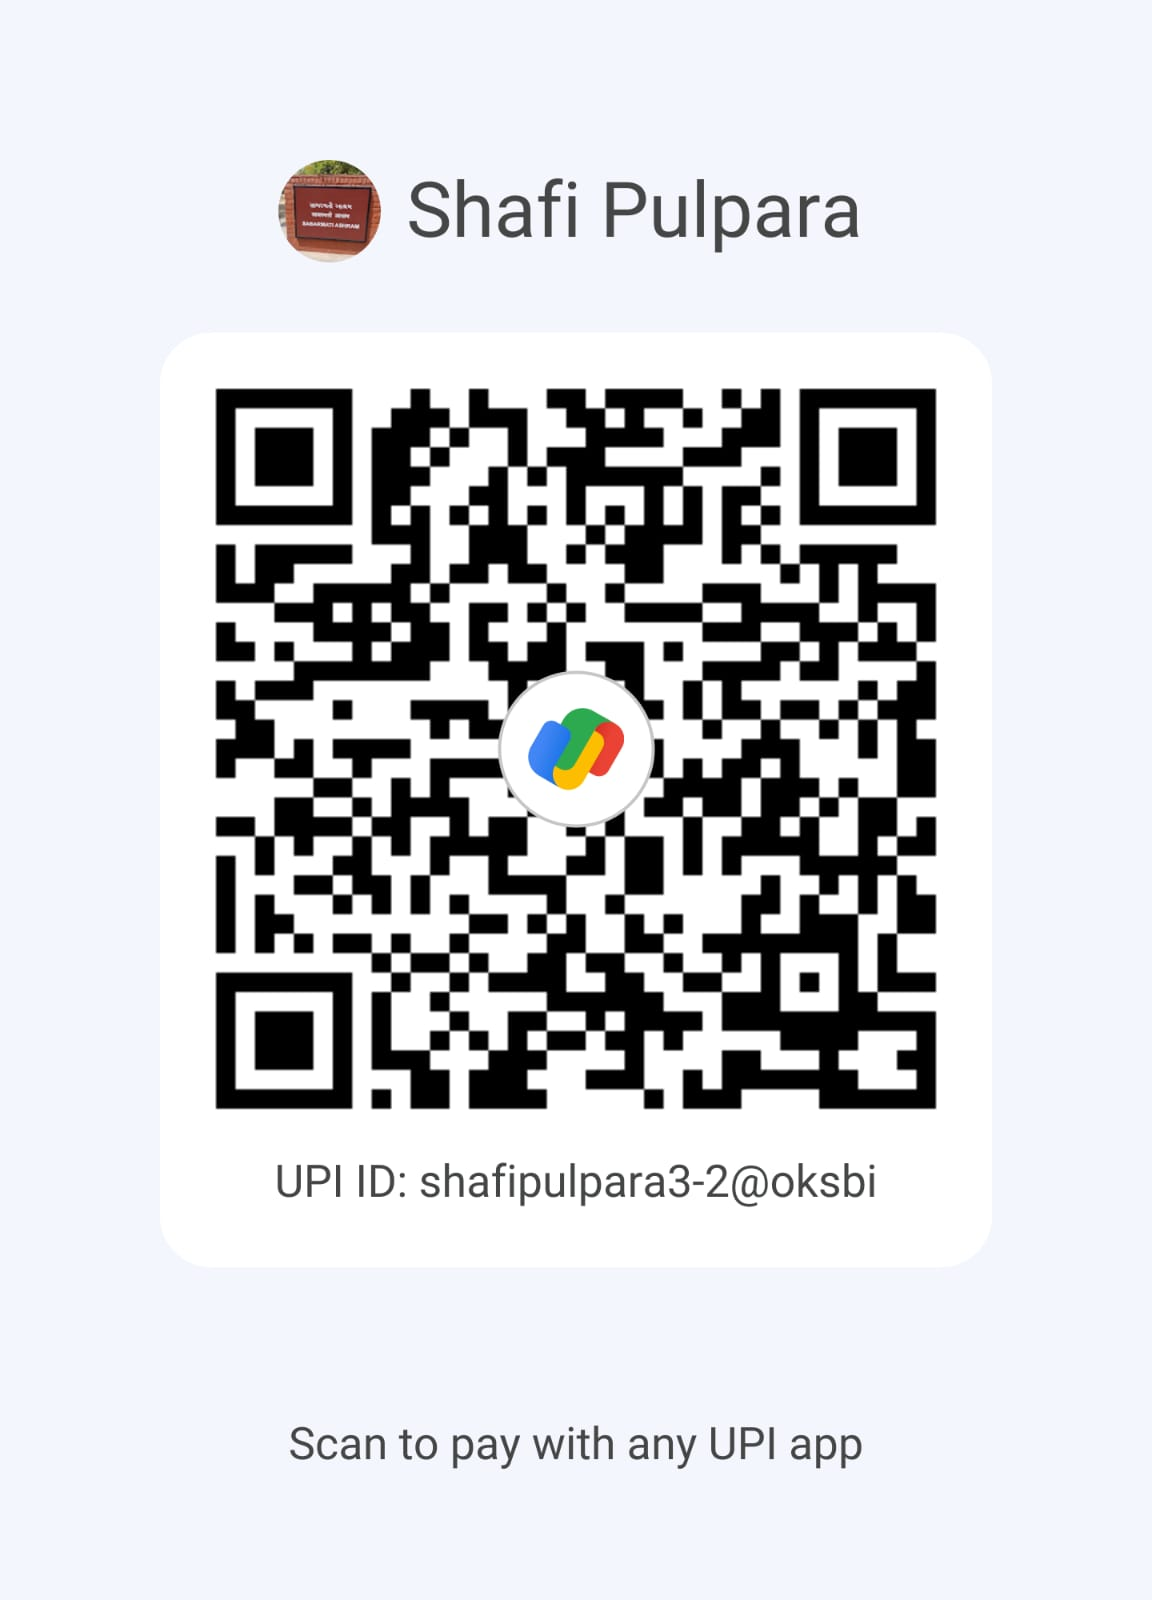
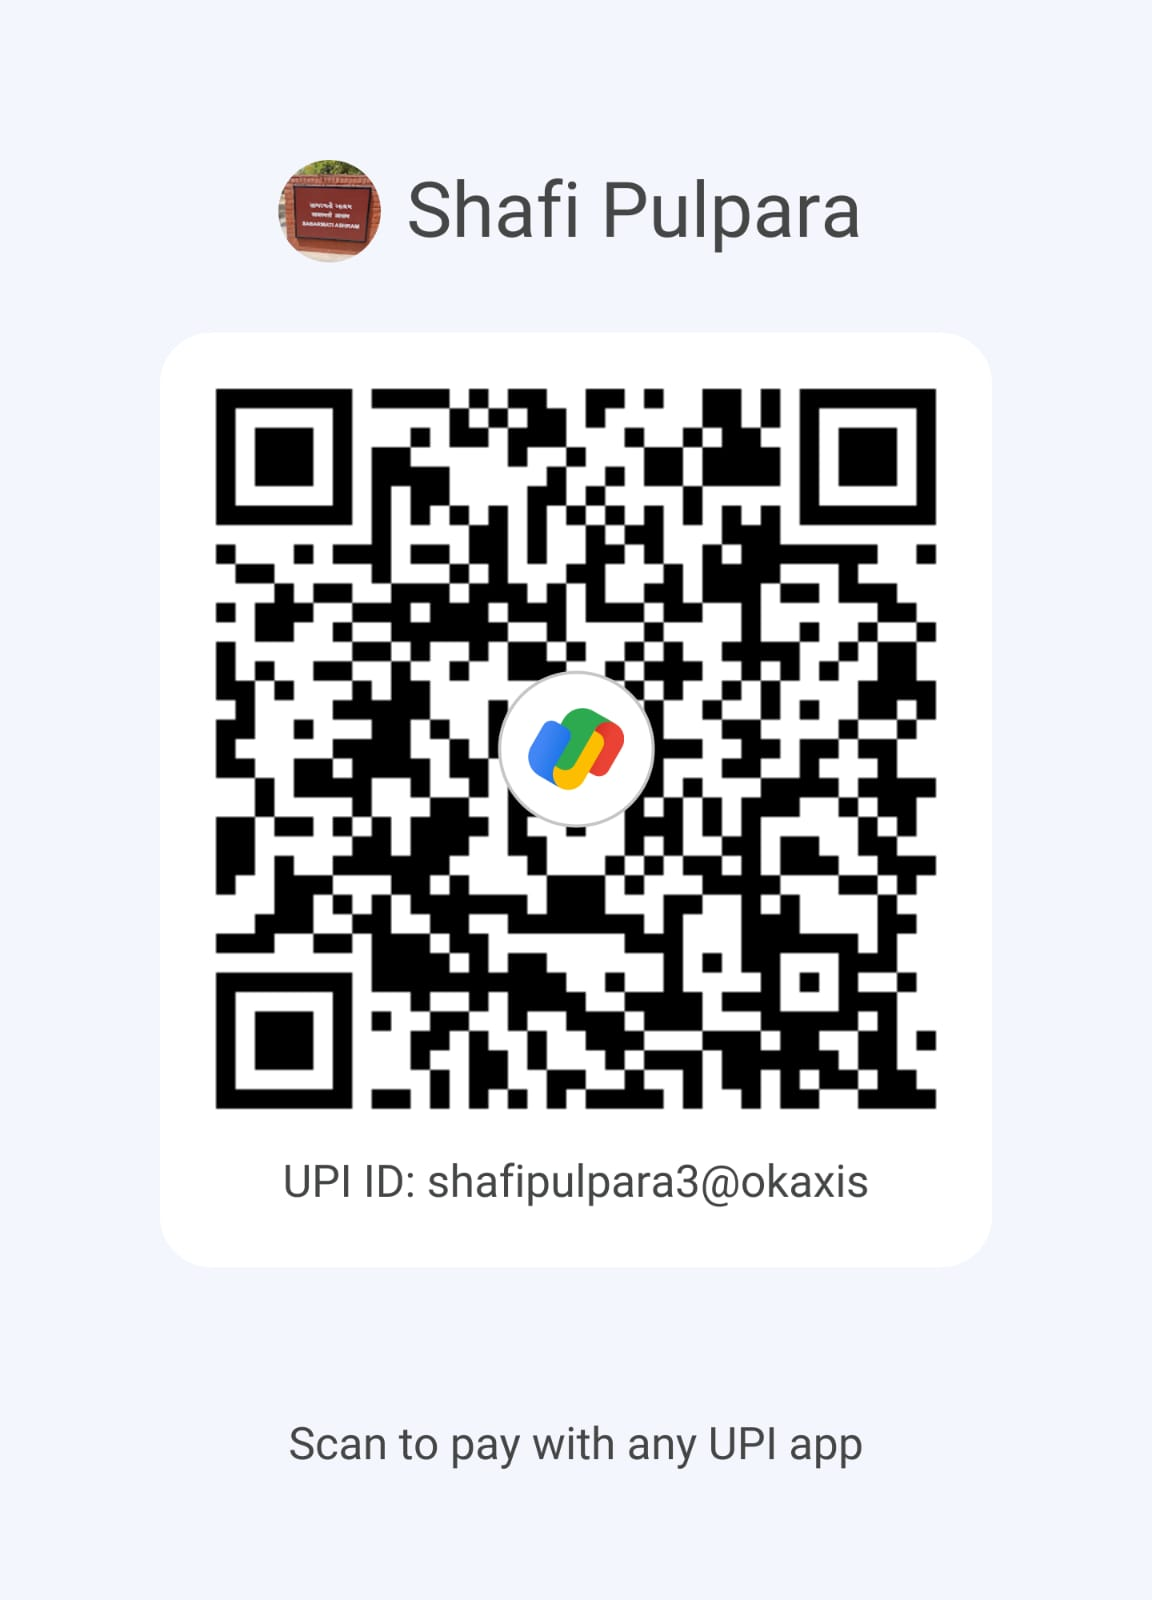
qrcodeupdates

Changed region(s): [[0.1875, 0.2188, 0.8125, 0.75]]

diff --git a/membership/templates/membership/member_dashboard.html b/membership/templates/membership/member_dashboard.html
@@ -381,7 +381,7 @@
 
         <h4 style="font-size: 0.9rem; font-weight: 700; color: var(--primary-navy); margin-bottom: 12px; border-top: 1px solid var(--border-light); padding-top: 16px;">Re-submit Payment Proof</h4>
         <div style="text-align: center; margin-bottom: 18px;">
-          <a href="upi://pay?pa=shafipulpara3-2@oksbi&pn=SHAFI%20K&am=200&cu=INR" title="Click to Pay ₹200 via UPI App">
+          <a href="upi://pay?pa=shafipulpara3@okaxis&pn=SHAFI%20K&am=200&cu=INR" title="Click to Pay ₹200 via UPI App">
             <img src="{% static 'images/payment_qr.jpeg' %}" alt="Payment QR Code" style="width: 150px; height: 150px; object-fit: contain; margin: 0 auto 10px; border: 1px solid var(--border-light); border-radius: var(--radius-md); padding: 6px; background: #FFFFFF;" />
           </a>
           <span style="font-size: 0.8rem; color: var(--text-muted); font-weight: 600; display: block;">Scan or Click QR to pay ₹ 200 via any UPI App</span>

diff --git a/membership/templates/membership/index.html b/membership/templates/membership/index.html
@@ -349,7 +349,7 @@
               
               <!-- LARGE HIGH-RESOLUTION QR CODE FOR EASY SCANNING -->
               <div class="payment-qr-card">
-                <a href="upi://pay?pa=shafipulpara3-2@oksbi&pn=SHAFI%20K&am=200&cu=INR" title="Click to pay ₹200 via UPI apps">
+                <a href="upi://pay?pa=shafipulpara3@okaxis&pn=SHAFI%20K&am=200&cu=INR" title="Click to pay ₹200 via UPI apps">
                   <img src="{% static 'images/payment_qr.jpeg' %}" alt="Payment QR Code" />
                 </a>
                 <div style="font-size: 0.86rem; font-weight: 800; color: #0F2B5C;">📱 Scan or Click QR Code to Pay ₹ 200</div>
